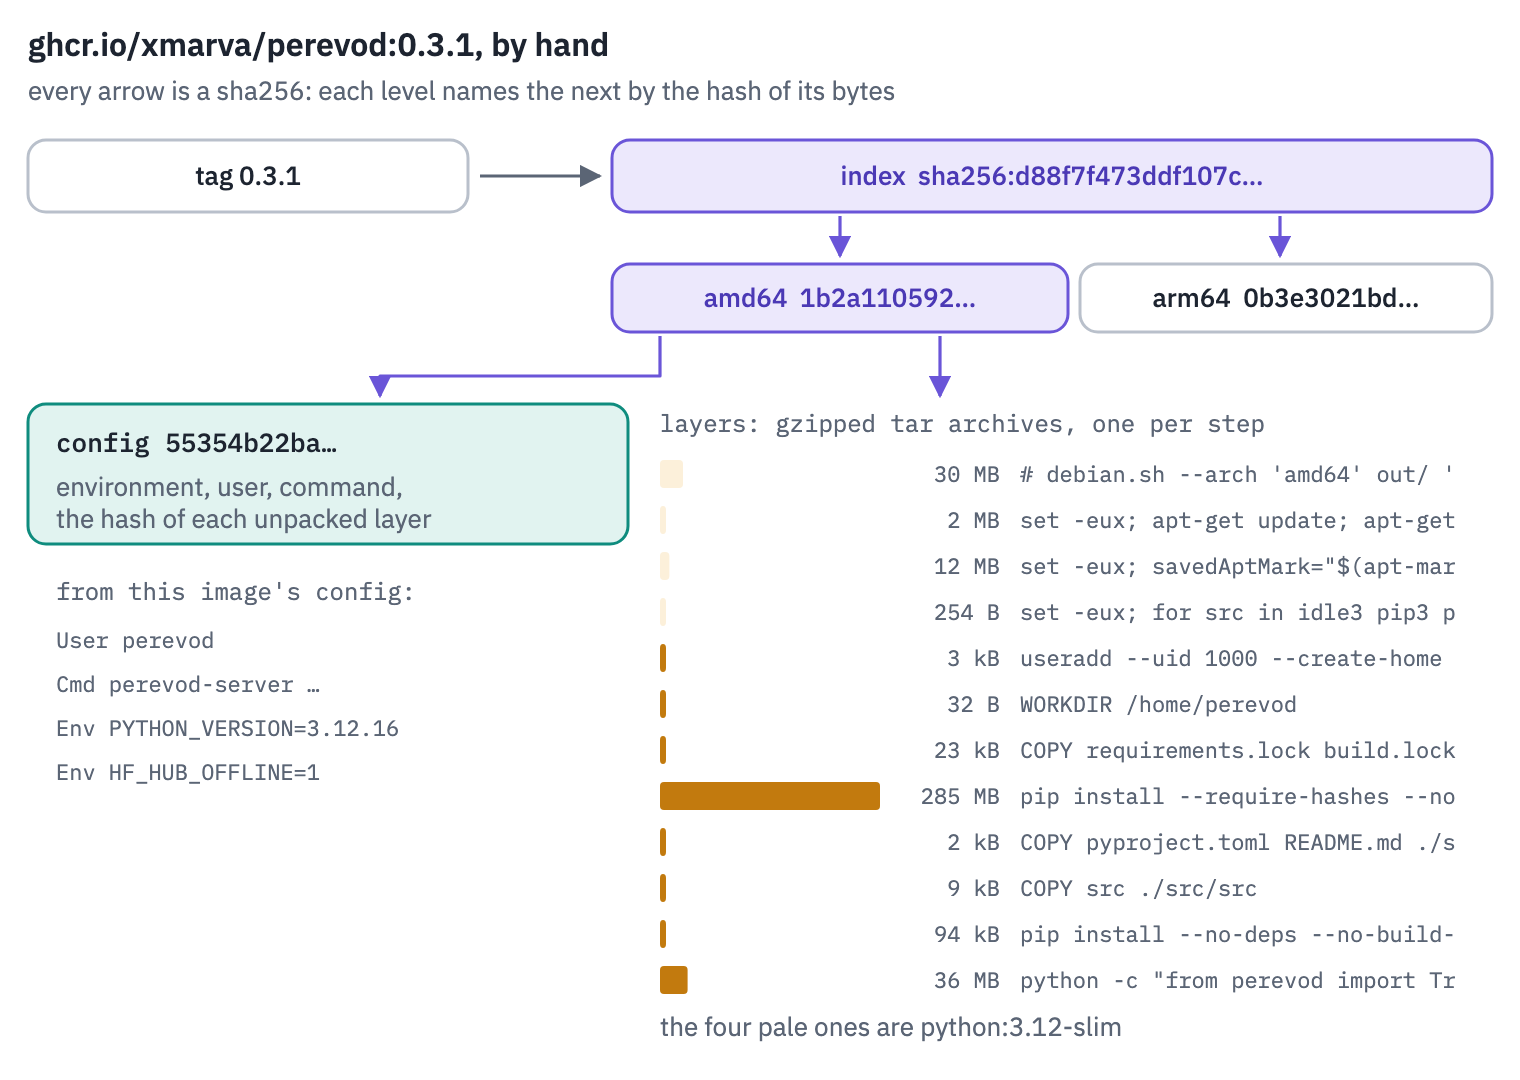
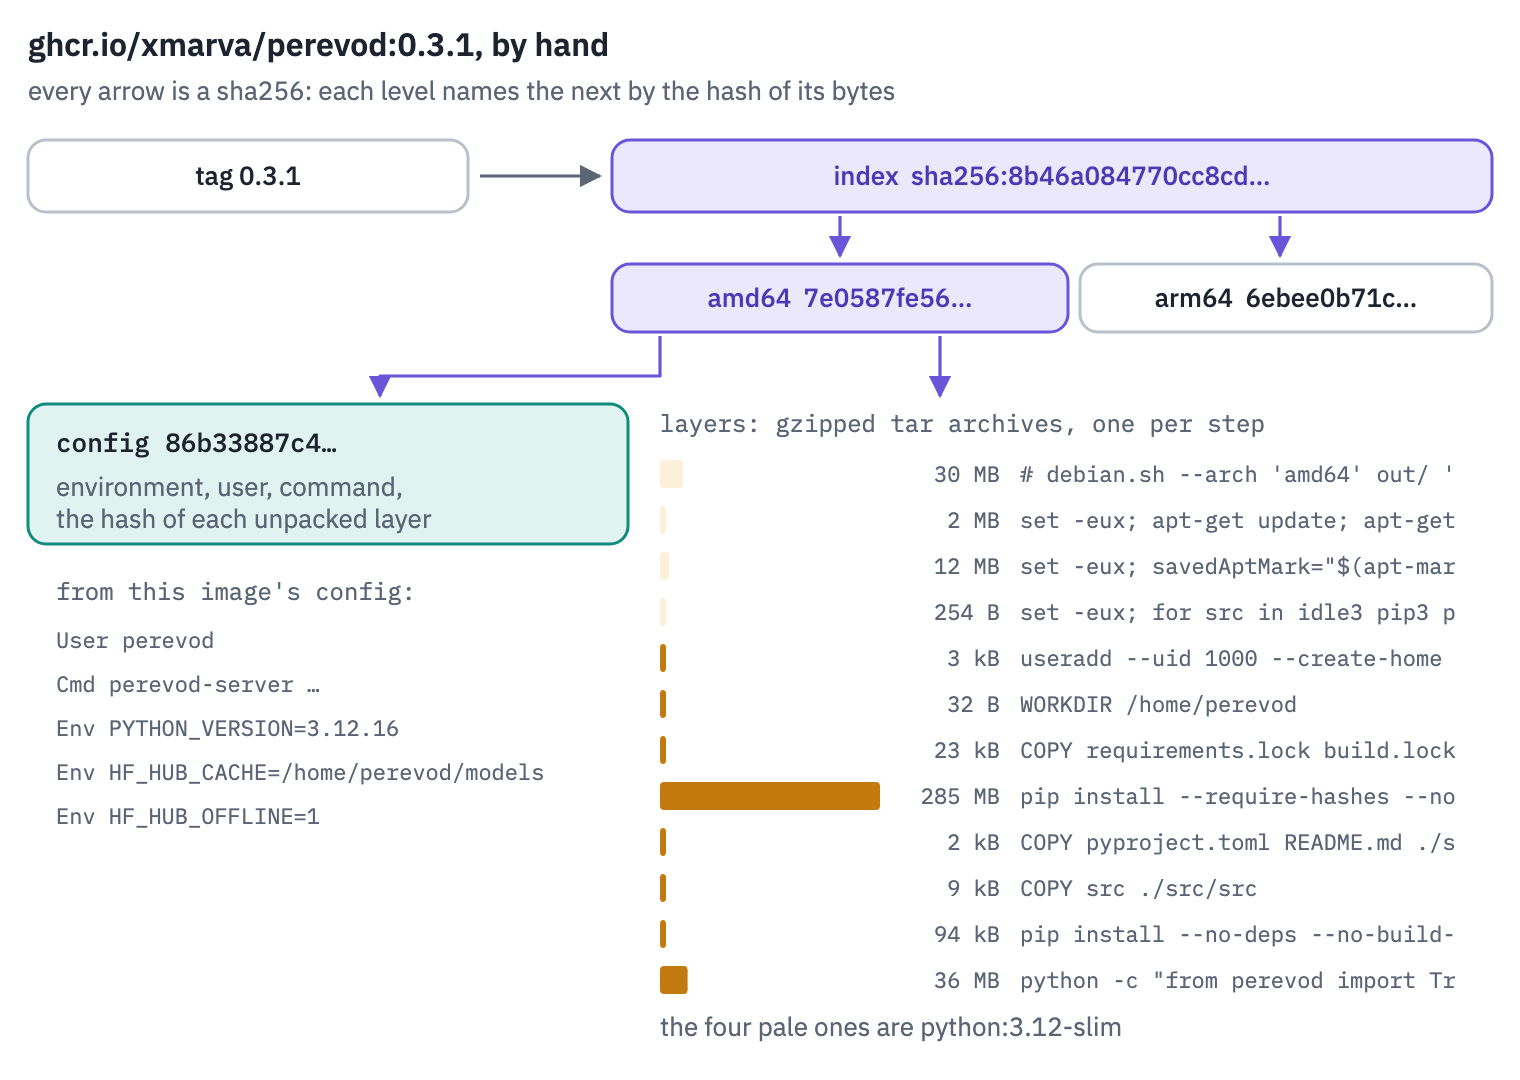
Lesson 9: figures from the published 0.3.1 image; the cross-architecture difference explained with its folders

diff --git a/lessons/09_docker/lesson.py b/lessons/09_docker/lesson.py
@@ -875,10 +875,10 @@ display(table(pd.DataFrame(rows), digits=1))
 #
 # The layer where pip installs perevod differs for a reason that took some digging. Running pip makes Python
 # import a few modules of its own standard library that the base image hadn't cached yet, and Python writes
-# their `.pyc` files into this layer. Python's import system writes timestamp headers no matter what
-# `SOURCE_DATE_EPOCH` says, which only changes the default of `py_compile` and `compileall`. The timestamps are
-# those of the standard library's source files, which differ between the two base images; inside one
-# architecture they're pinned along with the base, so two builds still agree.
+# their `.pyc` files into this layer, along with the folders they live in. Python's import system writes
+# timestamp headers no matter what `SOURCE_DATE_EPOCH` says, which only changes the default of `py_compile` and
+# `compileall`. The times are those of the standard library's files and folders, which differ between the two
+# base images; inside one architecture they're pinned along with the base, so two builds still agree.
 #
 # There's a stronger test than CI's. CI builds twice on the same machine, minutes apart. The real promise of a
 # reproducible build is that anyone, anywhere, later, gets the same bytes. A day after the release, a rebuild
